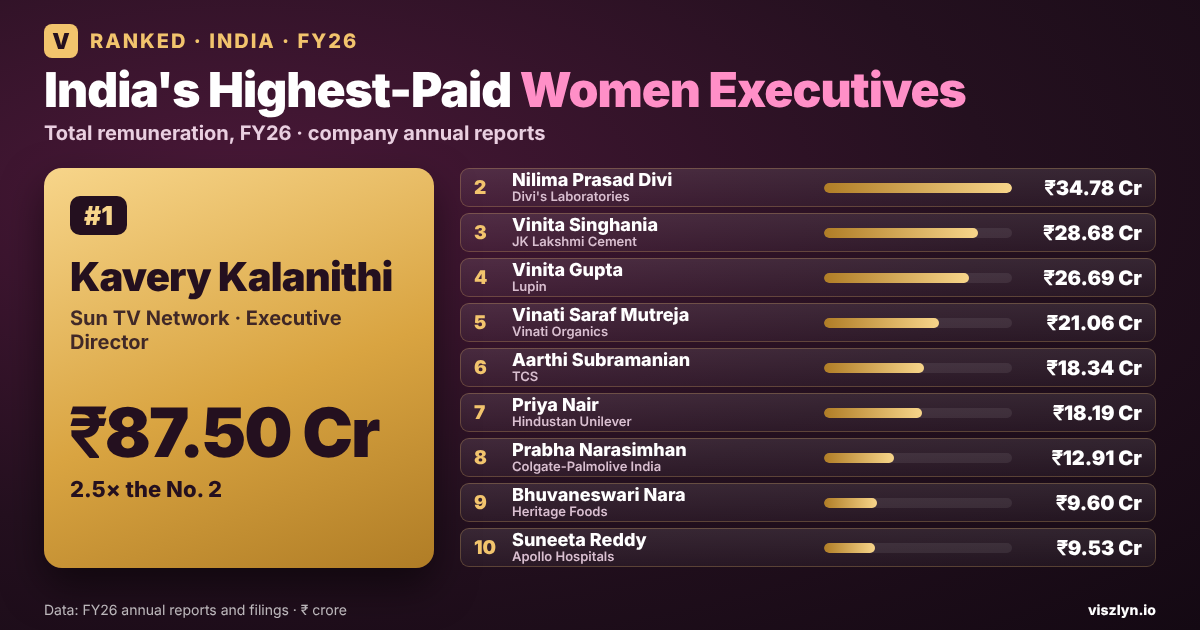
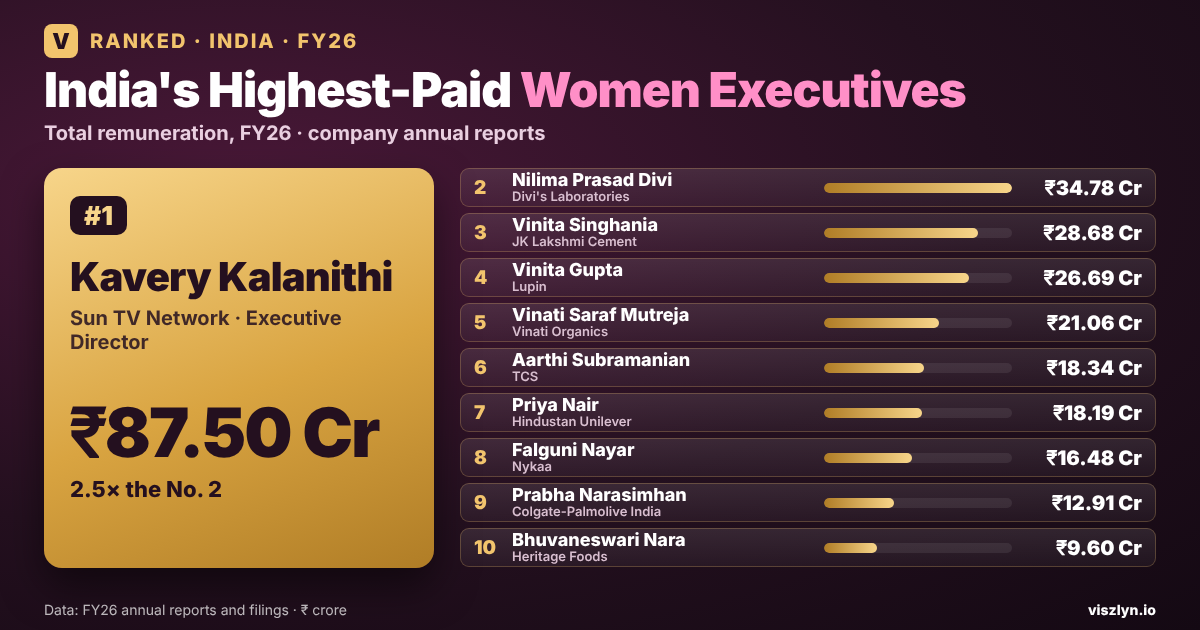
India women executives: add Falguni Nayar at No. 8 (Nykaa, Rs 16.48 crore incl. subsidiary pay); Suneeta Reddy moves to the callout
Claude-Session: https://claude.ai/code/session_01Lx7Mnbsr2j6Zre36XCS9Kp

diff --git a/src/data/rankings/india-highest-paid-women-executives-2026.ts b/src/data/rankings/india-highest-paid-women-executives-2026.ts
@@ -10,30 +10,30 @@ export const indiaHighestPaidWomenExecutives2026: RankingArticle = {
     "Sun TV's Kavery Kalanithi was India's highest-paid woman executive in FY26 at ₹87.50 crore, ahead of Divi's Nilima Prasad Divi (₹34.78 crore). The top 10, from company annual reports.",
   ogTitle: "India's 10 Highest-Paid Women Executives, FY26",
   ogDescription:
-    "Kavery Kalanithi of Sun TV leads at ₹87.50 crore, 2.5 times the No. 2. Seven of the top 10 are from promoter families. Verified in company annual reports.",
+    "Kavery Kalanithi of Sun TV leads at ₹87.50 crore, 2.5 times the No. 2. Seven of the top 10 are founders or from promoter families. Verified in company annual reports.",
   twitterTitle: "India's Highest-Paid Women Executives, FY26",
   twitterDescription:
     "Sun TV's Kavery Kalanithi ₹87.50 crore, Divi's Nilima Prasad Divi ₹34.78 crore, JK Lakshmi Cement's Vinita Singhania ₹28.68 crore. The top 10 for FY26.",
 
   eyebrow: "Money",
   title: "India's 10 Highest-Paid Women Executives in FY26",
-  dek: "The women executive directors of India's listed companies with the highest disclosed pay for FY26, the year ended March 2026. Sun TV's Kavery Kalanithi leads by a wide margin, and seven of the 10 come from the families that control their companies.",
+  dek: "The women executive directors of India's listed companies with the highest disclosed pay for FY26, the year ended March 2026. Sun TV's Kavery Kalanithi leads by a wide margin, and seven of the 10 are founders or come from the families that control their companies.",
   publishedDate: "November 15, 2026",
   lastUpdated: "November 15, 2026",
   dataPeriod: "FY26 (year ended March 31, 2026), company annual report disclosures",
   heroImage: {
     src: "/heroes/india-highest-paid-women-executives-2026.png",
     ogSrc: "/heroes/india-highest-paid-women-executives-2026-og.png",
-    alt: "Boardroom nameplates for India's 10 highest-paid women executives in FY26: Kavery Kalanithi, Sun TV, ₹87.50 crore; Nilima Prasad Divi, Divi's Laboratories, ₹34.78 crore; Vinita Singhania, JK Lakshmi Cement, ₹28.68 crore; Vinita Gupta, Lupin, ₹26.69 crore; Vinati Saraf Mutreja, Vinati Organics, ₹21.06 crore; Aarthi Subramanian, TCS, ₹18.34 crore; Priya Nair, Hindustan Unilever, ₹18.19 crore; Prabha Narasimhan, Colgate-Palmolive (India), ₹12.91 crore; Bhuvaneswari Nara, Heritage Foods, ₹9.60 crore; Suneeta Reddy, Apollo Hospitals, ₹9.53 crore.",
+    alt: "Boardroom nameplates for India's 10 highest-paid women executives in FY26: Kavery Kalanithi, Sun TV, ₹87.50 crore; Nilima Prasad Divi, Divi's Laboratories, ₹34.78 crore; Vinita Singhania, JK Lakshmi Cement, ₹28.68 crore; Vinita Gupta, Lupin, ₹26.69 crore; Vinati Saraf Mutreja, Vinati Organics, ₹21.06 crore; Aarthi Subramanian, TCS, ₹18.34 crore; Priya Nair, Hindustan Unilever, ₹18.19 crore; Falguni Nayar, Nykaa, ₹16.48 crore; Prabha Narasimhan, Colgate-Palmolive (India), ₹12.91 crore; Bhuvaneswari Nara, Heritage Foods, ₹9.60 crore.",
   },
 
   quickAnswer:
     "Kavery Kalanithi, Executive Director of Sun TV Network, was India's highest-paid woman executive in FY26, with ₹87.50 crore in total remuneration, according to Sun TV's annual report. That is about 2.5 times the second-highest figure, ₹34.78 crore for Nilima Prasad Divi of Divi's Laboratories. Vinita Singhania of JK Lakshmi Cement (₹28.68 crore) and Vinita Gupta of Lupin (₹26.69 crore) are third and fourth.",
   introParagraph:
-    "This ranking covers women who are executive directors of companies listed on India's stock exchanges: managing directors, CEOs, whole-time directors and executive chairpersons. Each figure is the total FY26 remuneration disclosed in the company's own annual report or statutory filing, not a news estimate. Non-executive and independent directors, who are paid sitting fees and commissions, are not included. The 10 executives earned a combined ₹267.29 crore. Seven of them are members of the families that founded or control their companies; three are professional executives, two of whom were paid for only part of the year.",
+    "This ranking covers women who are executive directors of companies listed on India's stock exchanges: managing directors, CEOs, whole-time directors and executive chairpersons. Each figure is the total FY26 remuneration disclosed in the company's own annual report or statutory filing, not a news estimate. Non-executive and independent directors, who are paid sitting fees and commissions, are not included. The 10 executives earned a combined ₹274.23 crore. Seven of them are founders or members of the families that founded or control their companies; three are professional executives, two of whom were paid for only part of the year.",
   calloutBox: {
     label: "Just outside the top 10",
-    body: "HDFC Life's Vibha Padalkar is 11th. Her total in HDFC Life's annual report is ₹9.49 crore, ₹0.044 crore below Suneeta Reddy. Some data providers show ₹10.04 crore by adding a ₹0.55 crore retirement-benefit figure that the report says is already included in her fixed pay. Welspun's Dipali Goenka is not ranked because no single total is disclosed for her: ₹4.35 crore from Welspun Living, excluding a profit commission that is not shown separately, plus ₹4.31 crore from an unlisted subsidiary.",
+    body: "Apollo Hospitals' Suneeta Reddy is 11th, with ₹9.534 crore. HDFC Life's Vibha Padalkar is 12th: her total in HDFC Life's annual report is ₹9.49 crore. Some data providers show ₹10.04 crore by adding a ₹0.55 crore retirement-benefit figure that the report says is already included in her fixed pay. Welspun's Dipali Goenka is not ranked because no single total is disclosed for her: ₹4.35 crore from Welspun Living, excluding a profit commission that is not shown separately, plus ₹4.31 crore from an unlisted subsidiary.",
   },
 
   chartTitle: "Total FY26 remuneration — ₹ crore",
@@ -48,24 +48,14 @@ export const indiaHighestPaidWomenExecutives2026: RankingArticle = {
     { rank: 5, name: "Vinati Saraf Mutreja", value: "₹21.06 Cr", raw: 21.06 },
     { rank: 6, name: "Aarthi Subramanian", value: "₹18.34 Cr", raw: 18.342 },
     { rank: 7, name: "Priya Nair", value: "₹18.19 Cr", raw: 18.19 },
-    { rank: 8, name: "Prabha Narasimhan", value: "₹12.91 Cr", raw: 12.9117 },
-    { rank: 9, name: "Bhuvaneswari Nara", value: "₹9.60 Cr", raw: 9.603 },
-    { rank: 10, name: "Suneeta Reddy", value: "₹9.53 Cr", raw: 9.534 },
+    { rank: 8, name: "Falguni Nayar", value: "₹16.48 Cr", raw: 16.477 },
+    { rank: 9, name: "Prabha Narasimhan", value: "₹12.91 Cr", raw: 12.9117 },
+    { rank: 10, name: "Bhuvaneswari Nara", value: "₹9.60 Cr", raw: 9.603 },
   ],
 
   detailedEntries: [
     {
       rank: 10,
-      name: "Suneeta Reddy",
-      earnings: "₹9.53 Cr",
-      category: "Apollo Hospitals · Managing Director",
-      revenueSources: "Fixed pay ₹5.50 crore; variable pay ₹4.03 crore",
-      blurb: "Suneeta Reddy, a member of the founding family of Apollo Hospitals Enterprise, was paid ₹9.534 crore as Managing Director in FY26, up 15.71% according to the annual report.",
-      standoutFact: "She holds 10th place by ₹0.044 crore, ahead of HDFC Life's Vibha Padalkar (₹9.49 crore).",
-      sourceTag: SRC,
-    },
-    {
-      rank: 9,
       name: "Bhuvaneswari Nara",
       earnings: "₹9.60 Cr",
       category: "Heritage Foods · Vice Chairperson & Managing Director",
@@ -75,7 +65,7 @@ export const indiaHighestPaidWomenExecutives2026: RankingArticle = {
       sourceTag: "Heritage Foods, annual return (Form MGT-7), FY26",
     },
     {
-      rank: 8,
+      rank: 9,
       name: "Prabha Narasimhan",
       earnings: "₹12.91 Cr",
       category: "Colgate-Palmolive (India) · Managing Director & CEO",
@@ -83,6 +73,16 @@ export const indiaHighestPaidWomenExecutives2026: RankingArticle = {
       blurb: "Prabha Narasimhan, a professional executive, was paid ₹12.91 crore in FY26, up 10.0% according to the annual report.",
       standoutFact: "Her largest component, ₹5.29 crore, came from exercising stock options and RSUs granted in earlier years by the US parent, Colgate-Palmolive Company.",
       sourceTag: SRC,
+    },
+    {
+      rank: 8,
+      name: "Falguni Nayar",
+      earnings: "₹16.48 Cr",
+      category: "FSN E-Commerce Ventures (Nykaa) \u00b7 Executive Chairperson, Managing Director & CEO",
+      revenueSources: "₹0.74 crore from FSN E-Commerce Ventures; ₹15.74 crore from its wholly owned subsidiary Nykaa E-Retail",
+      blurb: "Falguni Nayar, who founded Nykaa, had total FY26 remuneration of ₹16.477 crore as Executive Chairperson, Managing Director and CEO, according to FSN E-Commerce Ventures' annual report.",
+      standoutFact: "Most of it, ₹15.74 crore, was paid by Nykaa E-Retail, a wholly owned subsidiary. Because the listed company's annual report includes that amount in her total, it is counted here.",
+      sourceTag: "FSN E-Commerce Ventures, Annual Report 2025-26",
     },
     {
       rank: 7,
@@ -121,7 +121,7 @@ export const indiaHighestPaidWomenExecutives2026: RankingArticle = {
       category: "Lupin · Chief Executive Officer",
       revenueSources: "Fixed pay ₹18.58 crore; performance-linked incentive ₹8.11 crore",
       blurb: "Vinita Gupta, Lupin's CEO and a member of its founding family, was paid ₹26.69 crore in FY26, down 1.6% according to the annual report.",
-      standoutFact: "Her fixed pay of \u20b918.58 crore, about 70% of her total, is the highest fixed pay in this ranking.",
+      standoutFact: "Her fixed pay of ₹18.58 crore, about 70% of her total, is the highest fixed pay in this ranking.",
       sourceTag: SRC,
     },
     {
@@ -160,15 +160,15 @@ export const indiaHighestPaidWomenExecutives2026: RankingArticle = {
     stat: "₹87.50 Cr",
     label: "Kavery Kalanithi's FY26 remuneration, Sun TV Network",
     comparisonStat: "7 of 10",
-    comparisonLabel: "Executives in the top 10 from promoter or founding families",
-    note: "The seven family executives earned ₹217.85 crore between them. The three professional executives, Aarthi Subramanian (TCS), Priya Nair (Hindustan Unilever) and Prabha Narasimhan (Colgate-Palmolive India), earned ₹49.44 crore, and two of them were paid for only part of the year.",
+    comparisonLabel: "Executives in the top 10 who are founders or from promoter families",
+    note: "The seven founder and family executives earned ₹224.79 crore between them. The three professional executives, Aarthi Subramanian (TCS), Priya Nair (Hindustan Unilever) and Prabha Narasimhan (Colgate-Palmolive India), earned ₹49.44 crore, and two of them were paid for only part of the year.",
   },
 
   sourceNote: {
     dataPeriod: "FY26 (fiscal year ended March 31, 2026)",
     lastUpdated: "November 15, 2026",
     sources:
-      "FY26 annual reports of Sun TV Network, Divi's Laboratories, JK Lakshmi Cement, Lupin, Vinati Organics, Tata Consultancy Services, Hindustan Unilever, Colgate-Palmolive (India) and Apollo Hospitals Enterprise (director remuneration tables and Rule 5(1) disclosures); Heritage Foods' FY26 annual return (Form MGT-7); HDFC Life's FY26 annual report (for the callout).",
+      "FY26 annual reports of Sun TV Network, Divi's Laboratories, JK Lakshmi Cement, Lupin, Vinati Organics, Tata Consultancy Services, Hindustan Unilever, Colgate-Palmolive (India) and FSN E-Commerce Ventures (Nykaa) (director remuneration tables and Rule 5(1) disclosures); Heritage Foods' FY26 annual return (Form MGT-7); Apollo Hospitals Enterprise and HDFC Life FY26 annual reports (for the callout).",
     methodology:
       "The ranking covers women who were executive directors (managing director, CEO, whole-time director or executive chairperson) of NSE- or BSE-listed companies during FY26, ranked by the total remuneration their company disclosed for FY26. Totals and components are as published; where a company reports in lakh or million rupees, Viszlyn converted to crore without rounding beyond the chart's two decimals. Year-on-year changes are as disclosed by each company. Non-executive and independent directors are excluded. Pay for executives who joined during the year covers only part of the year. Pay received from other group companies is not included unless the listed company's report includes it. The combined totals, shares and ratios are calculated by Viszlyn.",
     sourceLinks: [
@@ -194,7 +194,7 @@ export const indiaHighestPaidWomenExecutives2026: RankingArticle = {
     {
       question: "Who is the highest-paid woman CEO in India?",
       answer:
-        "Among women with the CEO title, Lupin's Vinita Gupta was paid the most in FY26: ₹26.69 crore. Vinati Organics' Vinati Saraf Mutreja (₹21.06 crore), Hindustan Unilever's Priya Nair (₹18.19 crore, for eight months) and Colgate-Palmolive India's Prabha Narasimhan (₹12.91 crore) follow.",
+        "Among women with the CEO title, Lupin's Vinita Gupta was paid the most in FY26: ₹26.69 crore. Vinati Organics' Vinati Saraf Mutreja (₹21.06 crore), Hindustan Unilever's Priya Nair (₹18.19 crore, for eight months), Nykaa's Falguni Nayar (₹16.48 crore) and Colgate-Palmolive India's Prabha Narasimhan (₹12.91 crore) follow.",
     },
     {
       question: "What is Priya Nair's salary at HUL?",
@@ -202,9 +202,9 @@ export const indiaHighestPaidWomenExecutives2026: RankingArticle = {
         "Priya Nair's total remuneration for FY26 was ₹18.19 crore, covering August 1, 2025, when she became Managing Director and CEO, to March 31, 2026. It included ₹12.01 crore of salary and allowances, ₹4.48 crore of long-term incentives and a ₹1.70 crore bonus.",
     },
     {
-      question: "Why are most of India's highest-paid women executives from promoter families?",
+      question: "Why are most of India's highest-paid women executives founders or from promoter families?",
       answer:
-        "Seven of the top 10 belong to the families that founded or control their companies, and several of them receive large profit-linked commissions or bonuses decided by those companies' boards. Only three professional executives made the top 10: Aarthi Subramanian of TCS, Priya Nair of Hindustan Unilever and Prabha Narasimhan of Colgate-Palmolive India.",
+        "Seven of the top 10 are founders or belong to the families that founded or control their companies, and several of them receive large profit-linked commissions or bonuses decided by those companies' boards. Only three professional executives made the top 10: Aarthi Subramanian of TCS, Priya Nair of Hindustan Unilever and Prabha Narasimhan of Colgate-Palmolive India.",
     },
   ],
 
